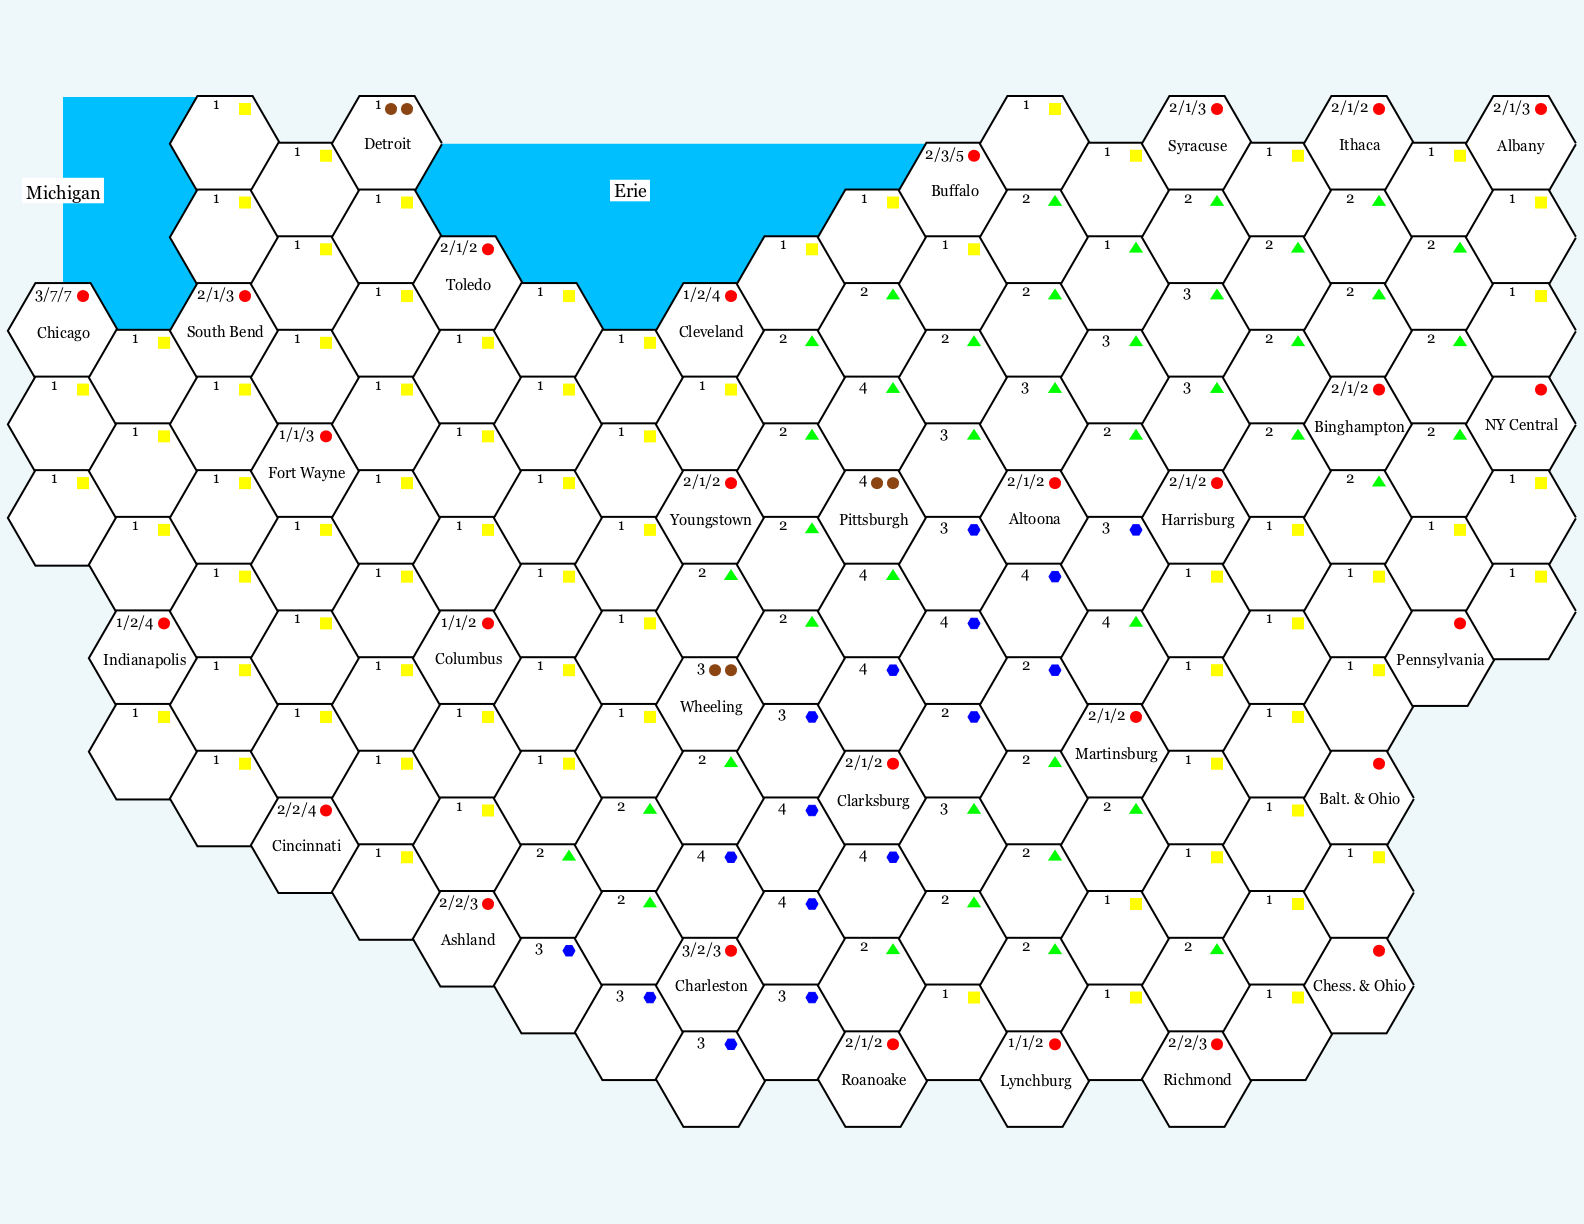
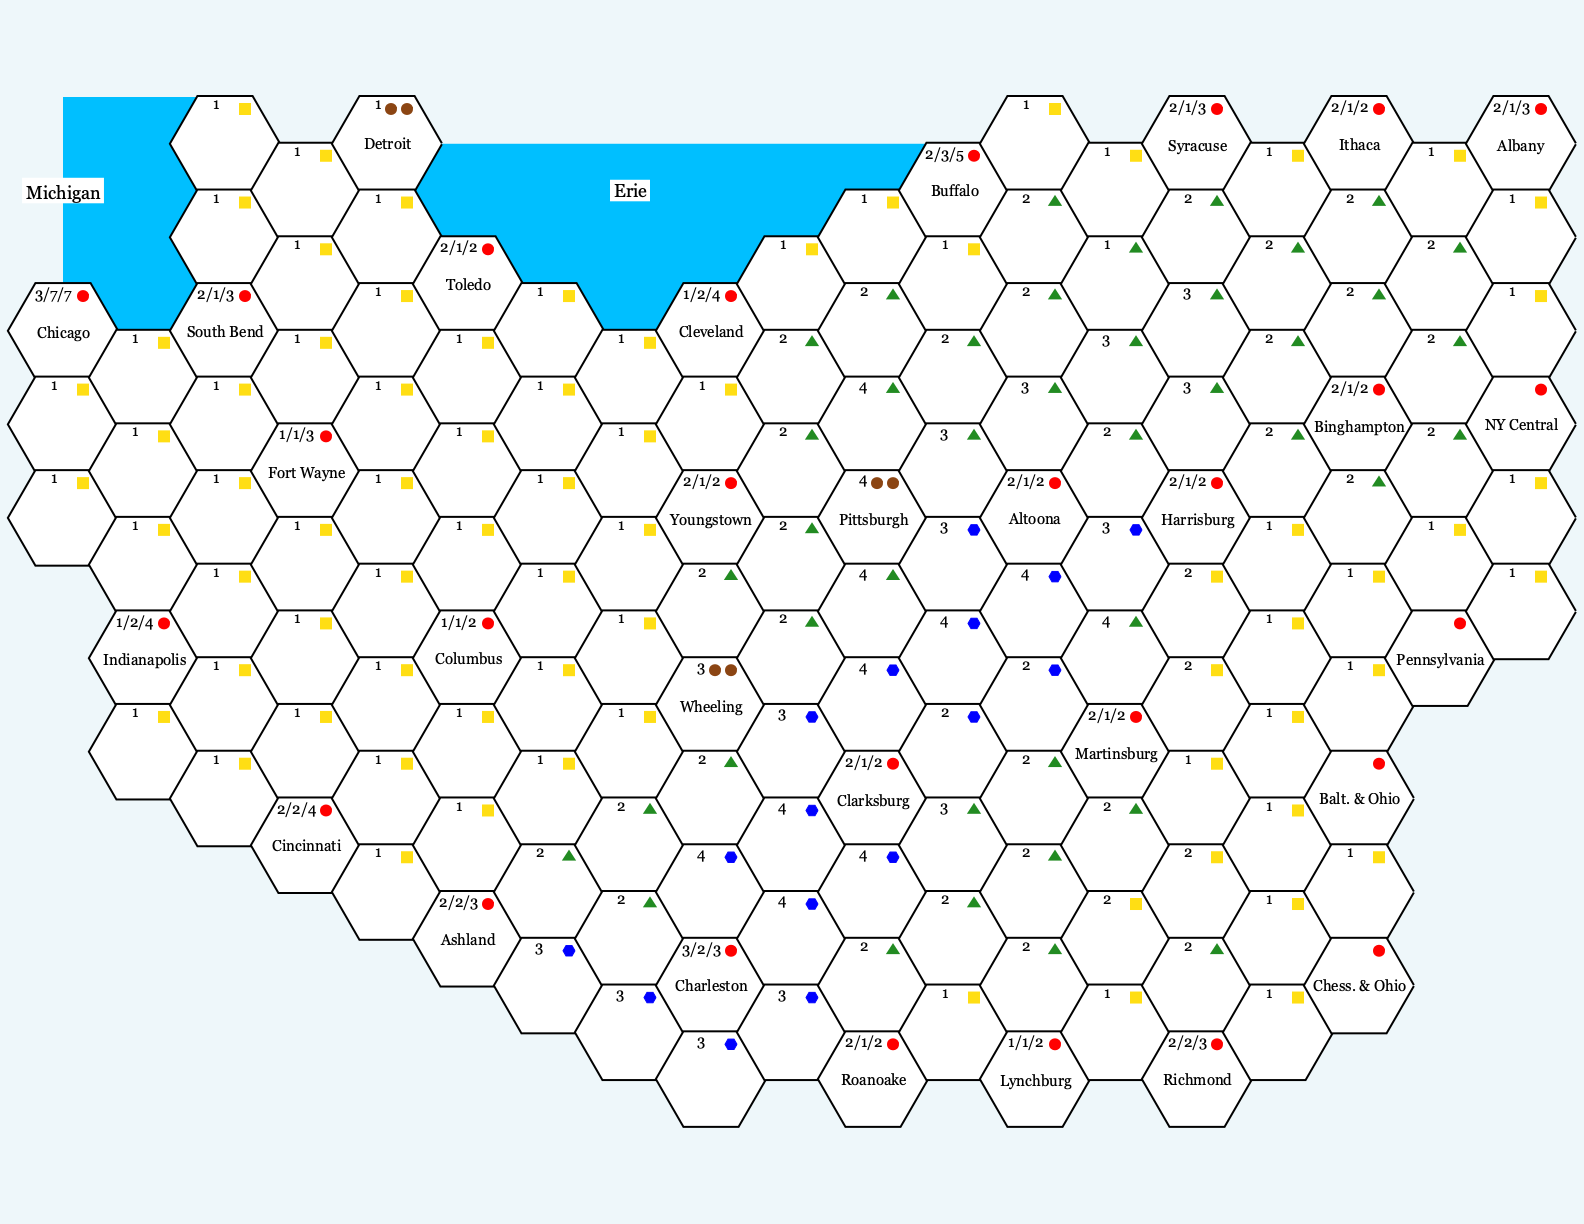
Fix plains cost on map1 (Wasbash Cannonball)
thanks BGG user Bahner

diff --git a/wabash_cannonball/gen_map1.py b/wabash_cannonball/gen_map1.py
@@ -15,28 +15,23 @@ hex_outline_width = 4
 
 save_ink = True
 
-color_default = (0xee/255.0, 0xf7/255.0, 0xfa/255.0)
+def rgb(value):
+	r = value >> 16
+	g = (value >> 8) & 0xFF
+	b = value & 0xFF
+	return (r/255.0, g/255.0, b/255.0)
+
+color_default = rgb(0xeef7fa)
 #color_default = (0, 0, 0)
 #color_default = (.8, .8, .8)
 color_black = (0, 0, 0)
 color_white = (1, 1, 1)
-color_red = (1, 0, 0)
-
-forest_green = (0x22, 0x8b, 0x22)
-color_green = (0, 0xcc/255.0, 0x66/255.0)
-color_blue = (0x33/255.0, 0x66/255.0, 0xff/255.0)
-color_yellow = (1, 1, 0)
-color_magenta = (1, 0, 1)
-
-color_city = (255, 255, 255)
-#color_city = (0xf9/255.0, 0xC9/255.0, 0xC4/255.0)
-color_industrial = (.3,.3,.3)
-color_water = (0x0, 0xBf/255.0, 0xff)
-color_plains = (0xfe/255.0, 0xfe/255.0, 0xe8/255.0)
-color_forest = (0xd5/255.0, 0xf5/255.0, 0xd5/255.0)
-color_mountain = (0x8c/255.0, 0x84/255.0, 0x7f/255.0)
-
-brown = (0x8b/255.0, 0x45/255.0, 0x13/255.0)
+color_forest = rgb(0x228b22)
+color_water = rgb(0x00bfff)
+color_golden_yellow = rgb(0xffde14)
+color_plains = color_golden_yellow
+#color_plains = (0x9b/255.0, 0x87/255.0, 0x0c/255.0)
+color_indust = rgb(0x8b4513)
 
 ###############################################################################
 # measuring, coordinates
@@ -154,10 +149,18 @@ for i,key in enumerate(forests):
 	lookup[key]['header'] = str(costs[i])
 	lookup[key]['type'] = 'forest'
 
-# 6/6 plains (all plains have cost 1)
-for x in 'G1 I1 F2 H2 J2 N2 A3 C3 G3 I3 K3 M3 O3 B4 D4 F4 J4 L4 N4 C5 E5 G5 I5 K5 M5 O5 Q5 F6 H6 J6 N6 P6 E7 G7 I7 K7 M7 O7 F8 H8 J8 L8 N8 G9 D10 C11 D12 A13 B14 B16 B18 C19 E19 I19 K19 J18 K17 M17 Q17 J16 L16 N16 P16 R16 T16 K15 M15 O15 Q15 R14 T14 T12'.split():
-	lookup[x]['header'] = '1'
-	lookup[x]['type'] = 'plains'
+# 6/6 plains
+coords = 'G1 I1 F2 H2 J2 N2 A3 C3 G3 I3 K3 M3 O3 B4 D4 F4 J4 L4 N4 C5 E5 G5 I5 K5 M5 O5 Q5 F6 H6 J6 N6 P6 E7 G7 I7 K7 M7 O7 F8 H8 J8 L8 N8 G9 D10 C11 D12 A13 B14 B16 B18 C19 E19 I19 K19 J18 K17 M17 Q17 J16 L16 N16 P16 R16 T16 K15 M15 O15 Q15 R14 T14 T12'.split()
+# most plains have cost 1
+coord2cost = {coord:1 for coord in coords}
+# exceptions
+coord2cost['K15'] = 2
+coord2cost['M15'] = 2
+coord2cost['Q15'] = 2
+coord2cost['R14'] = 2
+for (coord,cost) in coord2cost.items():
+	lookup[coord]['header'] = str(cost)
+	lookup[coord]['type'] = 'plains'
 
 ###############################################################################
 # funcs
@@ -294,16 +297,16 @@ def drawGameHex(cr, key):
 
 	# draw the shape icon depending on type
 	if lookup[key]['type'] == 'forest':
-		drawTriangle(cr, (x+20,y-hex_rr+12), 4, forest_green, forest_green)
+		drawTriangle(cr, (x+20,y-hex_rr+12), 4, color_forest, color_forest)
 	if lookup[key]['type'] == 'plains':
-		drawSquare(cr, (x+20,y-hex_rr+12), 4, (1,1,0), (1,1,0))
+		drawSquare(cr, (x+20,y-hex_rr+12), 4, color_plains, color_plains)
 	if lookup[key]['type'] == 'mountain':
 		drawHex(cr, (x+20,y-hex_rr+12), 6, (0,0,1), (0,0,1))
 	if lookup[key]['type'] == 'city':
 		drawCircle(cr, (x+20,y-hex_rr+12), 4, (1,0,0), (1,0,0))
 	if lookup[key]['type'] == 'industrial':
-		drawCircle(cr, (x+20,y-hex_rr+12), 4, brown, brown)
-		drawCircle(cr, (x+4,y-hex_rr+12), 4, brown, brown)
+		drawCircle(cr, (x+20,y-hex_rr+12), 4, color_indust, color_indust)
+		drawCircle(cr, (x+4,y-hex_rr+12), 4, color_indust, color_indust)
 
 ###############################################################################
 # main
